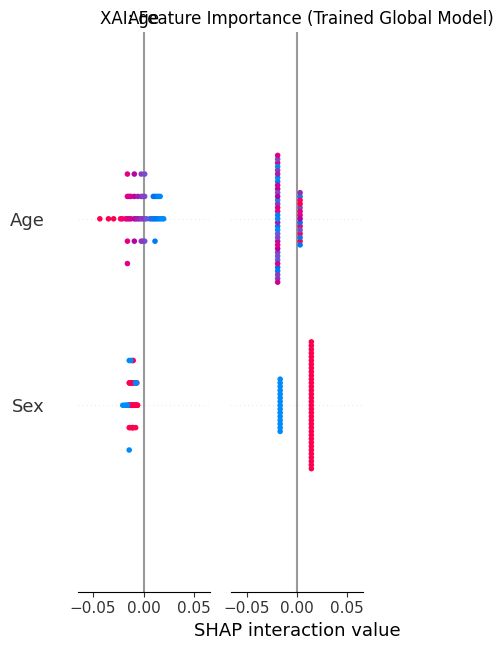
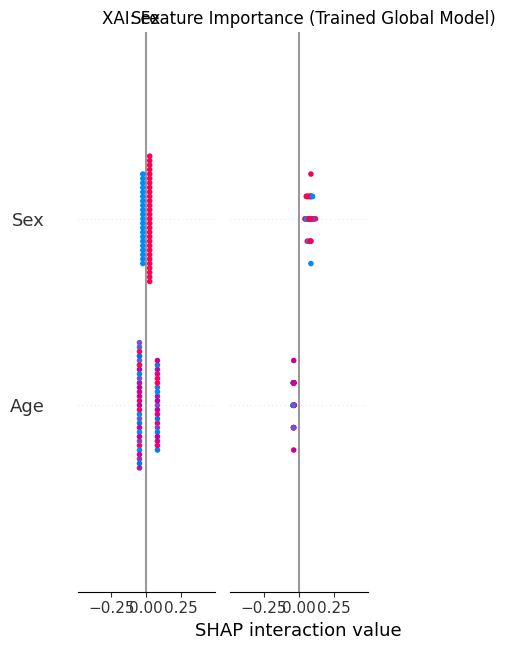
fix: Privacy-Utility Tradeoff

Changed region(s): [[0.1491, 0.0, 0.9245, 0.9846], [0.0298, 0.3077, 0.0895, 0.3692], [0.0, 0.6154, 0.0895, 0.6462]]

diff --git a/task.py b/task.py
@@ -30,7 +30,7 @@ def train(model, trainloader, optimizer, epochs, device, mu):
         module=model,
         optimizer=optimizer,
         data_loader=trainloader,
-        noise_multiplier=1.1, # The amount of "fog" we add to protect identity
+        noise_multiplier=0.1, # The amount of "fog" we add to protect identity
         max_grad_norm=1.0,    # Caps the max influence of one patient
     )
     
